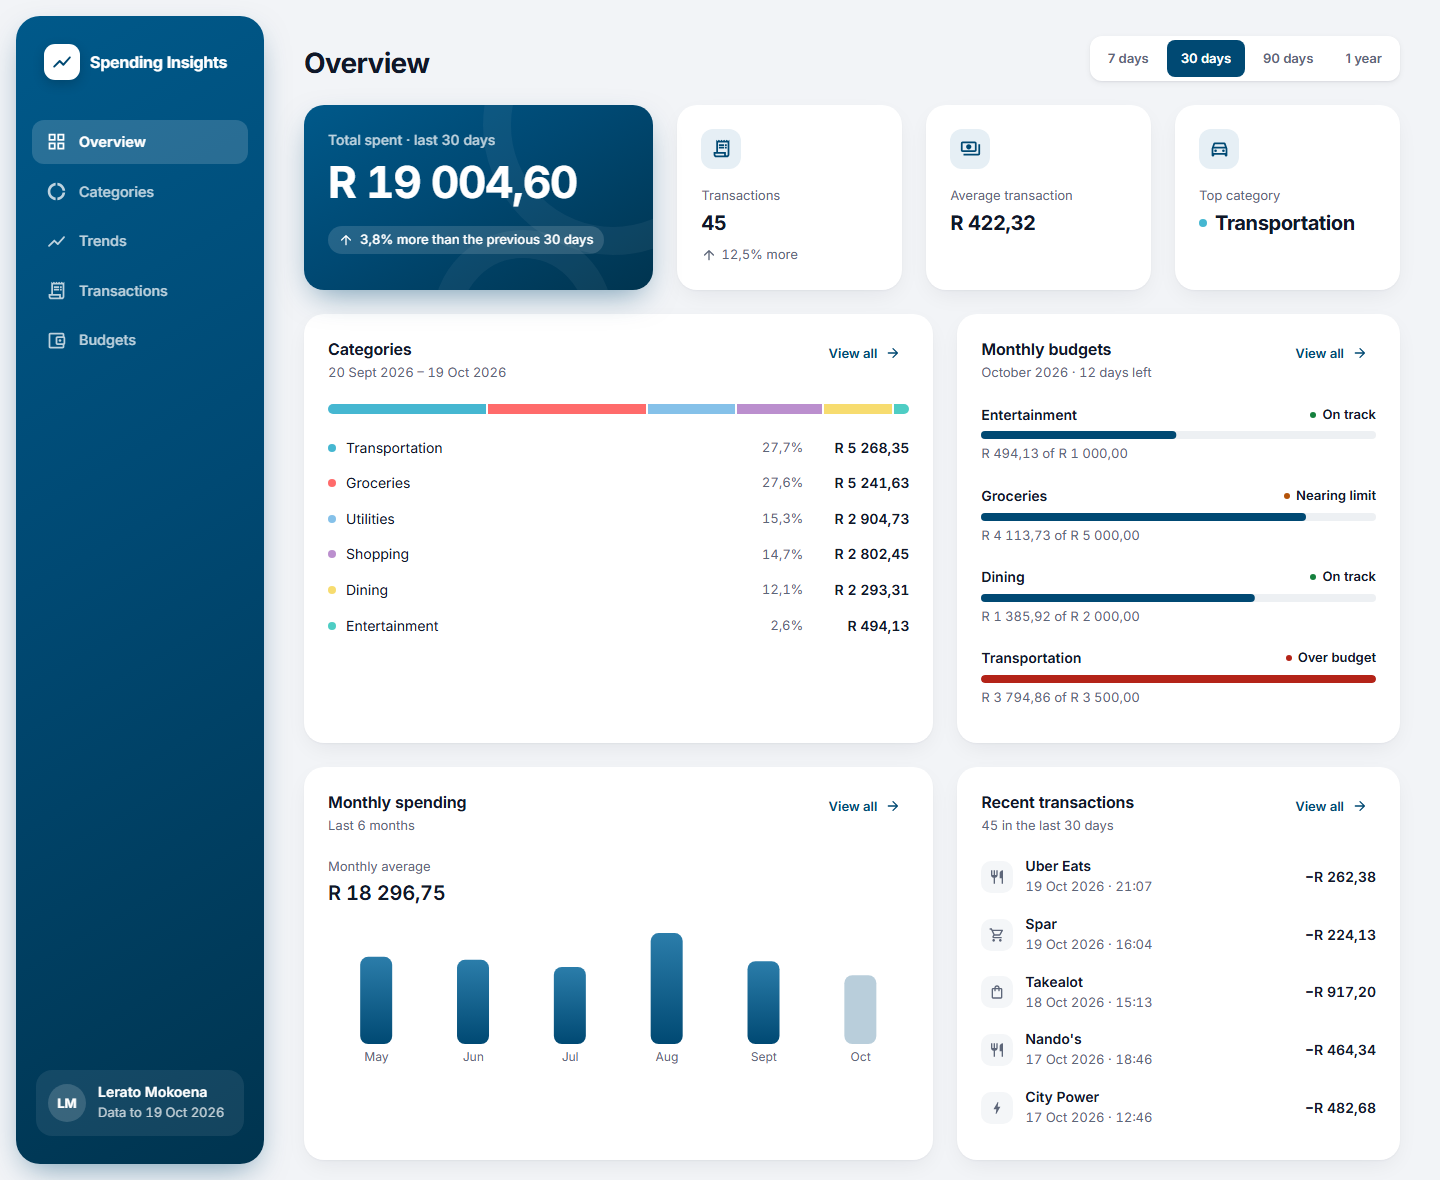
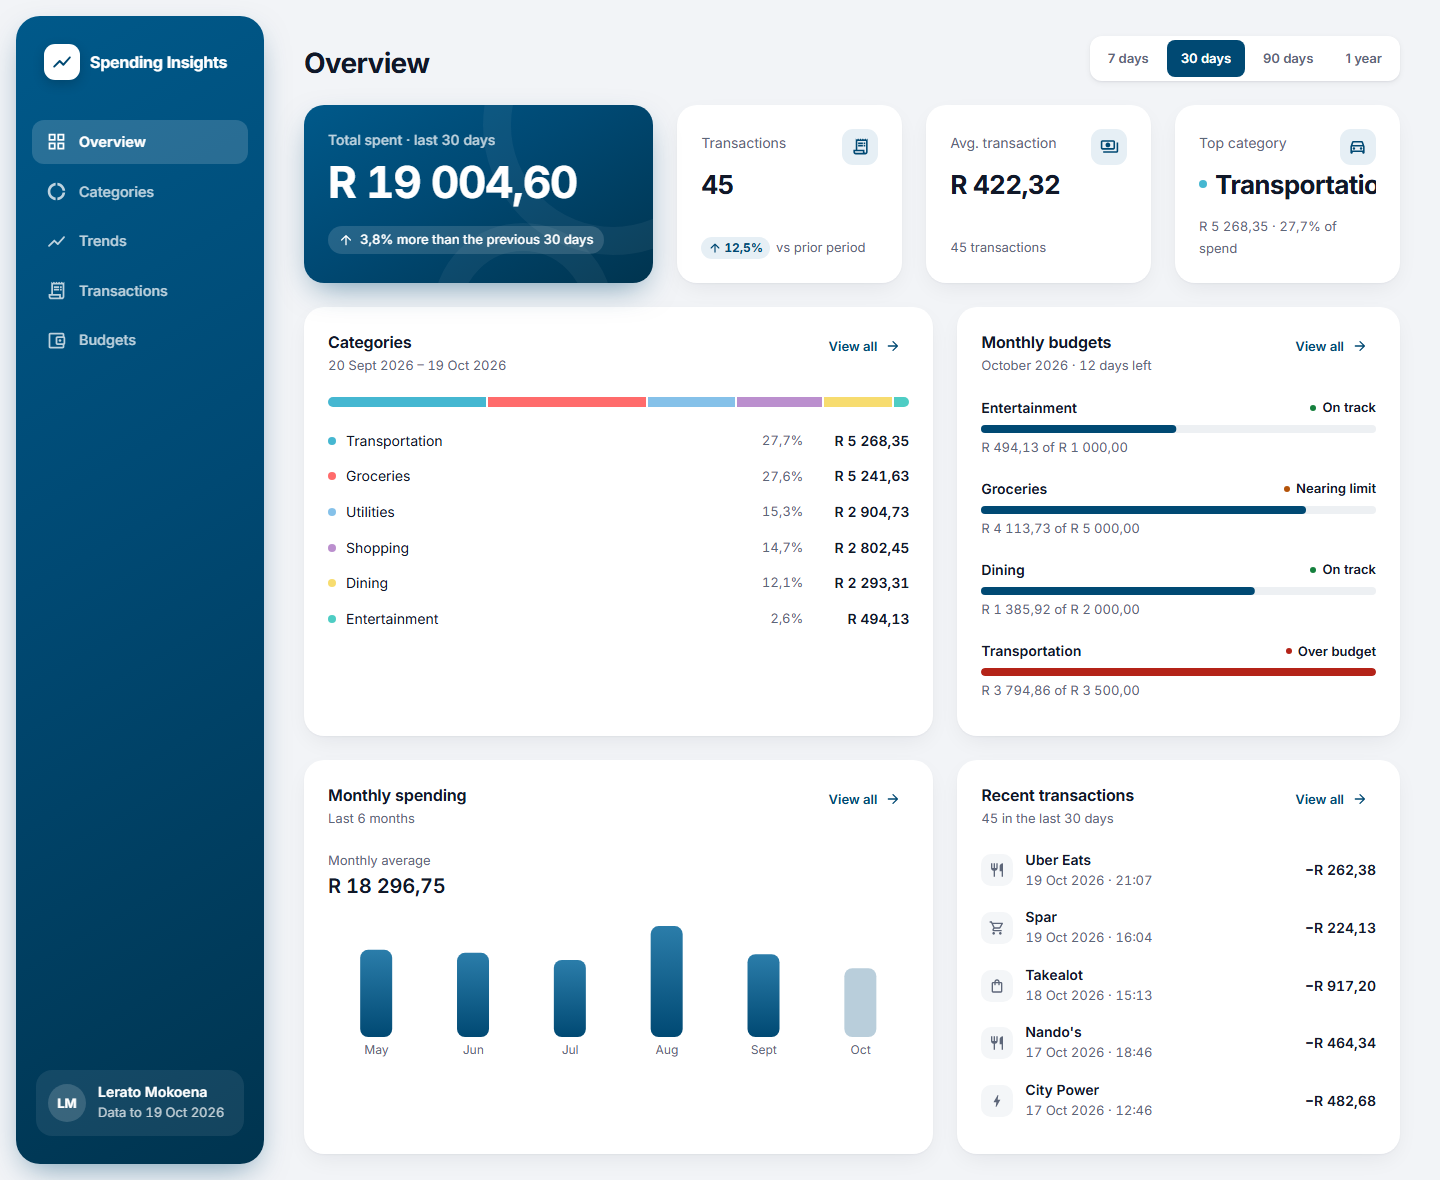
Consistent stat cards with pinned footers and change badges
Every stat card now shares one anatomy (label + icon, value, footer pinned
to the bottom) so cards in a row line up. Period-over-period change is a
compact neutral badge; each card gets short context (prior period, count,
share of spend, % of budget, days left).

diff --git a/src/components/common/StatCard.tsx b/src/components/common/StatCard.tsx
@@ -1,52 +1,113 @@
-import { Box, Card, Typography } from '@mui/material';
+import ArrowDownwardRounded from '@mui/icons-material/ArrowDownwardRounded';
+import ArrowUpwardRounded from '@mui/icons-material/ArrowUpwardRounded';
+import { Box, Card, Stack, Typography } from '@mui/material';
 import type { ReactNode } from 'react';
 import { tokens } from '../../theme/theme';
+import { formatPercent } from '../../utils/format';
+
+/**
+ * Compact percentage-change badge. Deliberately neutral in colour: more
+ * spending or more transactions is not inherently good or bad.
+ */
+export function ChangeBadge({ change, label }: { change: number; label: string }) {
+  const Icon = change >= 0 ? ArrowUpwardRounded : ArrowDownwardRounded;
+  return (
+    <Stack
+      direction="row"
+      spacing={0.25}
+      aria-label={label}
+      role="img"
+      sx={{
+        alignItems: 'center',
+        flexShrink: 0,
+        px: 0.875,
+        py: 0.25,
+        borderRadius: tokens.radius.pill,
+        bgcolor: tokens.color.accentSoft,
+        color: 'primary.main',
+      }}
+    >
+      <Icon aria-hidden sx={{ fontSize: 14 }} />
+      <Typography component="span" sx={{ fontSize: '0.75rem', fontWeight: 700 }}>
+        {formatPercent(Math.abs(change))}
+      </Typography>
+    </Stack>
+  );
+}
 
 interface StatCardProps {
   icon: ReactNode;
   label: string;
   value: ReactNode;
-  supporting?: ReactNode;
+  /** Short context shown at the bottom, e.g. "vs previous 7 days". */
+  footnote?: ReactNode;
+  /** Optional badge shown before the footnote. */
+  badge?: ReactNode;
 }
 
-/** A single metric: icon tile, label, value and an optional supporting line. */
-export function StatCard({ icon, label, value, supporting }: StatCardProps) {
+/**
+ * A single metric with a fixed anatomy so cards in a row always line up:
+ * label + icon, value, then a footer pinned to the bottom.
+ */
+export function StatCard({ icon, label, value, footnote, badge }: StatCardProps) {
   return (
-    <Card sx={{ height: '100%', p: tokens.cardPadding }}>
-      <Box
-        aria-hidden
-        sx={{
-          width: { xs: 36, sm: 40 },
-          height: { xs: 36, sm: 40 },
-          borderRadius: '12px',
-          display: 'grid',
-          placeItems: 'center',
-          bgcolor: tokens.color.accentSoft,
-          color: 'primary.main',
-          mb: { xs: 1.5, sm: 2 },
-          '& .MuiSvgIcon-root': { fontSize: 21 },
-        }}
+    <Card sx={{ height: '100%', p: tokens.cardPadding, display: 'flex', flexDirection: 'column' }}>
+      <Stack
+        direction="row"
+        spacing={1.5}
+        sx={{ justifyContent: 'space-between', alignItems: 'flex-start' }}
       >
-        {icon}
-      </Box>
-      <Typography variant="caption" component="p">
-        {label}
-      </Typography>
+        <Typography
+          variant="body2"
+          component="p"
+          noWrap
+          sx={{ color: 'text.secondary', pt: 0.5, minWidth: 0 }}
+        >
+          {label}
+        </Typography>
+        <Box
+          aria-hidden
+          sx={{
+            width: 36,
+            height: 36,
+            flexShrink: 0,
+            borderRadius: '11px',
+            display: 'grid',
+            placeItems: 'center',
+            bgcolor: tokens.color.accentSoft,
+            color: 'primary.main',
+            '& .MuiSvgIcon-root': { fontSize: 19 },
+          }}
+        >
+          {icon}
+        </Box>
+      </Stack>
       <Typography
         component="p"
         noWrap
         sx={{
-          fontSize: { xs: '1.125rem', sm: '1.25rem' },
+          fontSize: { xs: '1.375rem', sm: '1.625rem' },
           fontWeight: 700,
-          letterSpacing: '-0.02em',
-          mt: 0.25,
+          letterSpacing: '-0.025em',
+          lineHeight: 1.2,
+          mt: 0.5,
+          mb: 2,
         }}
       >
         {value}
       </Typography>
-      {supporting && (
-        <Box sx={{ mt: 0.75, color: 'text.secondary', fontSize: '0.8125rem' }}>{supporting}</Box>
-      )}
+      <Stack
+        direction="row"
+        useFlexGap
+        sx={{ mt: 'auto', minHeight: 22, gap: 0.75, flexWrap: 'wrap', alignItems: 'center' }}
+      >
+        {badge}
+        {footnote && (
+          <Typography variant="caption" component="p" sx={{ minWidth: 0 }}>
+            {footnote}
+          </Typography>
+        )}
+      </Stack>
     </Card>
   );
 }

diff --git a/src/components/overview/SummaryCard.tsx b/src/components/overview/SummaryCard.tsx
@@ -6,9 +6,9 @@ import ReceiptLongOutlined from '@mui/icons-material/ReceiptLongOutlined';
 import { Box, Card, Grid2 as Grid, Skeleton, Stack, Typography } from '@mui/material';
 import { CATEGORY_BY_NAME } from '../../../shared/categories';
 import type { Period, SpendingSummary } from '../../../shared/types';
-import { useSpendingSummary } from '../../hooks/useInsightsQueries';
+import { useSpendingCategories, useSpendingSummary } from '../../hooks/useInsightsQueries';
 import { tokens } from '../../theme/theme';
-import { formatCurrency, formatNumber, PERIOD_LABEL } from '../../utils/format';
+import { formatCurrency, formatNumber, formatPercent, PERIOD_LABEL } from '../../utils/format';
 import {
   describeCountChange,
   describeSpendingChange,
@@ -16,8 +16,7 @@ import {
 } from '../../utils/insights';
 import { CategoryDot } from '../common/CategoryDot';
 import { CategoryIcon } from '../common/CategoryIcon';
-import { StatCard } from '../common/StatCard';
-import { ChangeIndicator } from '../spending/ChangeIndicator';
+import { ChangeBadge, StatCard } from '../common/StatCard';
 import { EmptyState, SectionState } from '../states/SectionState';
 
 const CHANGE_ICON = {
@@ -98,6 +97,10 @@ function HeroCard({ summary }: { summary: SpendingSummary }) {
 
 function SummaryContent({ summary }: { summary: SpendingSummary }) {
   const topCategory = summary.topCategory ? CATEGORY_BY_NAME[summary.topCategory] : null;
+  const transactionChange = summary.comparedToPrevious.transactionChange;
+  // Shares the cached categories query used elsewhere on the overview.
+  const categories = useSpendingCategories(summary.period);
+  const topShare = categories.data?.categories.find((c) => c.name === summary.topCategory);
   return (
     <Grid container spacing={{ xs: 2, md: 3 }}>
       <Grid size={{ xs: 12, lg: 4 }}>
@@ -108,23 +111,28 @@ function SummaryContent({ summary }: { summary: SpendingSummary }) {
           icon={<ReceiptLongOutlined />}
           label="Transactions"
           value={formatNumber(summary.transactionCount)}
-          supporting={
-            <ChangeIndicator
-              change={describeCountChange(summary.comparedToPrevious.transactionChange)}
-            />
+          footnote="vs prior period"
+          badge={
+            transactionChange !== null && (
+              <ChangeBadge
+                change={transactionChange}
+                label={describeCountChange(transactionChange).text}
+              />
+            )
           }
         />
       </Grid>
       <Grid size={{ xs: 6, sm: 4, lg: 8 / 3 }}>
         <StatCard
           icon={<PaymentsOutlined />}
-          label="Average transaction"
+          label="Avg. transaction"
           value={formatCurrency(summary.averageTransaction)}
+          footnote={`${formatNumber(summary.transactionCount)} transactions`}
         />
       </Grid>
       <Grid size={{ xs: 12, sm: 4, lg: 8 / 3 }}>
         <StatCard
-          icon={topCategory ? <CategoryIcon icon={topCategory.icon} size={21} bare /> : null}
+          icon={topCategory ? <CategoryIcon icon={topCategory.icon} size={19} bare /> : null}
           label="Top category"
           value={
             topCategory ? (
@@ -135,6 +143,11 @@ function SummaryContent({ summary }: { summary: SpendingSummary }) {
             ) : (
               'None'
             )
+          }
+          footnote={
+            topShare
+              ? `${formatCurrency(topShare.amount)} · ${formatPercent(topShare.percentage)} of spend`
+              : undefined
           }
         />
       </Grid>

diff --git a/src/views/TrendsView.tsx b/src/views/TrendsView.tsx
@@ -265,7 +265,7 @@ export function TrendsView({ months, onMonthsChange }: TrendsViewProps) {
                   value={
                     insight.averageMonthly === null ? '—' : formatCurrency(insight.averageMonthly)
                   }
-                  supporting={`${insight.completeMonths.length} complete months`}
+                  footnote={`Over ${insight.completeMonths.length} complete months`}
                 />
               </Grid>
               <Grid size={{ xs: 6, sm: 4 }}>
@@ -273,7 +273,7 @@ export function TrendsView({ months, onMonthsChange }: TrendsViewProps) {
                   icon={<TrendingUpRounded />}
                   label="Highest month"
                   value={insight.highest ? formatCurrency(insight.highest.totalSpent) : '—'}
-                  supporting={insight.highest ? formatMonthLong(insight.highest.month) : undefined}
+                  footnote={insight.highest ? formatMonthLong(insight.highest.month) : undefined}
                 />
               </Grid>
               <Grid size={{ xs: 6, sm: 4 }}>
@@ -281,7 +281,7 @@ export function TrendsView({ months, onMonthsChange }: TrendsViewProps) {
                   icon={<TrendingDownRounded />}
                   label="Lowest month"
                   value={insight.lowest ? formatCurrency(insight.lowest.totalSpent) : '—'}
-                  supporting={insight.lowest ? formatMonthLong(insight.lowest.month) : undefined}
+                  footnote={insight.lowest ? formatMonthLong(insight.lowest.month) : undefined}
                 />
               </Grid>
               <Grid size={12}>

diff --git a/src/views/BudgetsView.tsx b/src/views/BudgetsView.tsx
@@ -82,6 +82,7 @@ function Totals({ goals }: { goals: SpendingGoal[] }) {
   const budget = goals.reduce((sum, goal) => sum + goal.monthlyBudget, 0);
   const spent = goals.reduce((sum, goal) => sum + goal.currentSpent, 0);
   const remaining = budget - spent;
+  const daysRemaining = goals[0]?.daysRemaining;
   return (
     <Grid container spacing={{ xs: 2, md: 3 }} sx={{ mb: { xs: 2, md: 3 } }}>
       <Grid size={{ xs: 12, sm: 4 }}>
@@ -89,16 +90,27 @@ function Totals({ goals }: { goals: SpendingGoal[] }) {
           icon={<AccountBalanceWalletOutlined />}
           label="Total budgeted"
           value={formatCurrency(budget)}
+          footnote={`${goals.length} ${goals.length === 1 ? 'category' : 'categories'}`}
         />
       </Grid>
       <Grid size={{ xs: 12, sm: 4 }}>
-        <StatCard icon={<PaymentsOutlined />} label="Spent so far" value={formatCurrency(spent)} />
+        <StatCard
+          icon={<PaymentsOutlined />}
+          label="Spent so far"
+          value={formatCurrency(spent)}
+          footnote={`${formatPercent(budget === 0 ? 0 : (spent / budget) * 100)} of budget`}
+        />
       </Grid>
       <Grid size={{ xs: 12, sm: 4 }}>
         <StatCard
           icon={<SavingsOutlined />}
           label={remaining >= 0 ? 'Remaining' : 'Over budget'}
           value={formatCurrency(Math.abs(remaining))}
+          footnote={
+            daysRemaining === undefined
+              ? undefined
+              : `${daysRemaining} ${daysRemaining === 1 ? 'day' : 'days'} left in the month`
+          }
         />
       </Grid>
     </Grid>
